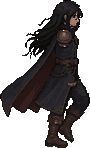
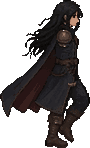
기준 얼굴 v2: 옆7 원래 그대로 + 정면 살색 (사장님 10-27)
Claude-Session: https://claude.ai/code/session_01Ed92eTBNbhN1yf3zW3burX

Changed region(s): [[0.7778, 0.0811, 0.8889, 0.2162]]

diff --git a/handoff/claude/team/face_stamp_v3/retouch.py b/handoff/claude/team/face_stamp_v3/retouch.py
@@ -1,31 +1,30 @@
-# 기준 얼굴 손 보정 (사장님 10-27 「코드로 고치지 말고 중간중간 색 빠진 거 다시 칠하고 깔끔하게 원형 그대로 보정만」)
-# 칸 하나하나 손으로 정한 색 (모양은 그대로, 빠진 색·회색·구멍만 다시 칠함). 좌표 = 얼굴 칸(앞 정6: 위 3, 왼 46 / 옆7: 위 2, 왼 55 기준)
+# 기준 얼굴 손 보정 v2 (사장님 10-27 「옆모습은 원래가 더 나아」「정면이랑 색깔이 틀림」)
+# 정6: 색 빠진 칸만 손으로 다시 칠함(모양 그대로). 옆7: 그림은 원래 그대로, 살색만 정면 살색으로 바꿈(색 대응표, 손으로 정함)
 from PIL import Image
 S = '/tmp/claude-0/-home-user-thor-like-game/16277cc3-67c1-5ded-80dc-465b39d4f5af/scratchpad/fix/'
-FRONT = {  # (x, y): (r, g, b)
-    (20, 9): (52, 40, 38),                                   # 머리카락 속 푸른 점 → 머리 색
-    (14, 16): (24, 26, 38), (15, 16): (26, 28, 38),          # 왼눈 눈동자 (그대로 짙은 남색, 조금 또렷이)
-    (14, 17): (60, 70, 92), (15, 17): (66, 76, 98),          # 왼눈 아래 회색 → 눈동자 아랫빛(푸른 회색)
-    (16, 17): (196, 152, 134),                               # 왼눈 옆 바랜 살 → 살색
-    (22, 16): (24, 26, 38), (23, 16): (26, 28, 38),          # 오른눈 눈동자 (왼눈과 같게)
-    (22, 17): (60, 70, 92), (23, 17): (66, 76, 98),          # 오른눈 아래 회색 → 같은 푸른 회색
+FRONT = {  # (x, y): (r, g, b) — 얼굴 칸 기준(위 3, 왼 46)
+    (20, 9): (52, 40, 38),
+    (14, 16): (24, 26, 38), (15, 16): (26, 28, 38), (14, 17): (60, 70, 92), (15, 17): (66, 76, 98), (16, 17): (196, 152, 134),
+    (22, 16): (24, 26, 38), (23, 16): (26, 28, 38), (22, 17): (60, 70, 92), (23, 17): (66, 76, 98),
 }
-SIDE = {
-    (21, 16): (118, 84, 70),                                 # 눈썹 그늘
-    (21, 17): (34, 24, 26), (20, 17): (60, 40, 36),          # 빠진 눈 다시: 눈동자 + 눈꼬리
-    (22, 17): (196, 170, 160),                               # 눈 앞 흰자 한 칸
-    (18, 16): (172, 138, 120), (19, 16): (172, 138, 120),    # 이마 밝은 면
-    (23, 18): (172, 136, 118), (23, 19): (138, 104, 90),     # 코끝 회색 → 살색, 코 밑 그늘
-    (22, 19): (145, 114, 98),                                # 코 옆 그늘
-    (17, 22): (145, 116, 98), (18, 22): (145, 116, 98), (19, 22): (145, 116, 98),  # 턱 아래 그늘
-    (15, 24): (38, 27, 24),                                  # 목 회색 점 → 목 그늘
-    (18, 24): (40, 26, 22), (19, 24): (32, 19, 17),          # 턱 밑 구멍 메움 (목 그늘)
-    (17, 25): (119, 93, 80), (18, 25): (58, 41, 34), (19, 25): (28, 20, 17),  # 목 살 이어서
-    (18, 26): (22, 21, 21),
+SIDE_SKIN = {  # 옆 살색 → 정면 살색 (밝은 것부터 같은 차례로)
+    (210, 184, 169): (211, 157, 133),
+    (159, 126, 109): (199, 149, 122), (159, 125, 110): (199, 149, 122),
+    (145, 116, 98): (185, 135, 110),
+    (134, 102, 88): (175, 127, 105),
+    (127, 98, 87): (170, 124, 100),
+    (119, 93, 80): (161, 109, 87),
+    (108, 82, 68): (147, 102, 83),
+    (100, 76, 66): (132, 93, 78),
+    (84, 65, 56): (118, 81, 65),
+    (163, 149, 160): (204, 168, 152), (179, 169, 164): (214, 186, 176),  # 코끝 회색 두 칸 → 같은 밝기의 따뜻한 색
 }
-for tag, (oy, ox), table in [('front', (3, 46), FRONT), ('side', (2, 55), SIDE)]:
-    im = Image.open(S + f'{tag}_orig_full.png').convert('RGBA')
-    for (x, y), c in table.items():
-        im.putpixel((ox + x, oy + y), c + (255,))
-    im.save(S + f'{tag}_fixed_full.png')
-    print(tag, len(table), '칸')
+im = Image.open(S + 'front_orig_full.png').convert('RGBA')
+for (x, y), c in FRONT.items(): im.putpixel((46 + x, 3 + y), c + (255,))
+im.save(S + 'front_fixed_full.png')
+im = Image.open(S + 'side_orig_full.png').convert('RGBA'); n = 0
+for y in range(2 + 9, 2 + 28):
+    for x in range(55 + 13, 55 + 26):
+        p = im.getpixel((x, y))
+        if p[3] == 255 and p[:3] in SIDE_SKIN: im.putpixel((x, y), SIDE_SKIN[p[:3]] + (255,)); n += 1
+im.save(S + 'side_fixed_full.png'); print('옆 살색 바꾼 칸', n)

diff --git a/handoff/claude/team/face_stamp_v3/README_ko.md b/handoff/claude/team/face_stamp_v3/README_ko.md
@@ -8,5 +8,5 @@
 
 ## 기준 얼굴 확정 (사장님 10-27 「정6 옆7, 코드로 고치지 말고 색 빠진 거 다시 칠하고 원형 그대로 보정만」)
 - 정면 = `hit1_down_00`(그록 공격 얼굴, 푸른 눈), 옆 = `hit3_right_03`.
-- 손 보정 `retouch.py` = 칸마다 손으로 정한 색 표(모양 그대로): 정면 10칸(눈 아래 회색 → 푸른 눈빛, 양 눈 같게, 머리카락 푸른 점), 옆 19칸(빠진 눈·눈썹 그늘·코끝 회색·이마 밝은 면·턱 그늘, 턱 밑 구멍 메움).
+- 손 보정 `retouch.py` v2: 정면 10칸(눈 아래 회색 → 푸른 눈빛, 양 눈 같게, 머리카락 푸른 점). 옆은 **원래 그림 그대로**(사장님 「옆모습은 원래가 더 나아」 — 눈·그늘 넣은 v1 버림) + **살색만 정면 살색으로**(「정면이랑 색깔이 틀림」, 옆 살색 10가지 → 정면 살색 대응표, 69칸).
 - 결과 `front_fixed_full.png`·`side_fixed_full.png`, 비교 `얼굴_보정_전후.png`.
